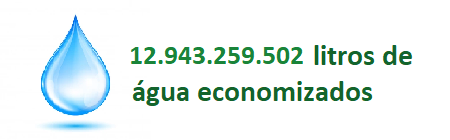
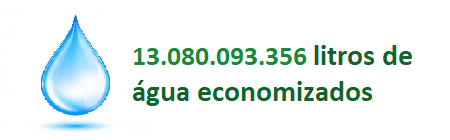
Atualização Parcial Jun23

Changed region(s): [[0.28, 0.3143, 0.6844, 0.4857]]

diff --git a/frontend/src/components/DataTable/index.tsx b/frontend/src/components/DataTable/index.tsx
@@ -22,11 +22,11 @@ const DataTable = () => {
                     </tr>
                     <tr>
                         <td>Codel</td>
-                        <td>249</td>
-                        <td>410</td>
-                        <td>871</td>
-                        <td>25.872,492</td>
-                        <td>108.211,245</td>
+                        <td>258</td>
+                        <td>422</td>
+                        <td>882</td>
+                        <td>29.819,243</td>
+                        <td>109.743,343</td>
                     </tr>
                     <tr>
                         <td>Ecobras</td>
@@ -62,19 +62,19 @@ const DataTable = () => {
                     </tr>
                     <tr>
                         <td>Natal</td>
-                        <td>521</td>
-                        <td>3.396</td>
-                        <td>517</td>
-                        <td>210.957,831</td>
-                        <td>1.583.484,786</td>
+                        <td>527</td>
+                        <td>3.448</td>
+                        <td>525</td>
+                        <td>173.802,411</td>
+                        <td>1.653.930,096</td>
                     </tr>
                     <tr>
                         <td>Reciclo</td>
-                        <td>1.428</td>
-                        <td>2.492</td>
-                        <td>1.727</td>
-                        <td>121.083,247</td>
-                        <td>2.443.289,383</td>
+                        <td>1.498</td>
+                        <td>2.560</td>
+                        <td>1.774</td>
+                        <td>101.823,127</td>
+                        <td>2.535.031,403</td>
                     </tr>                    
                     <tr>
                         <td>Reeecicle</td>
@@ -93,10 +93,10 @@ const DataTable = () => {
                     </tr>
                     <tr>
                         <td>Sete Ambiental</td>
-                        <td>1.219</td>
-                        <td>988</td>
+                        <td>1.257</td>
+                        <td>1.025</td>
                         <td>17</td>
-                        <td>188.649,383</td>
+                        <td>216.379,923</td>
                         <td>609,600</td>
                     </tr>
                     <tr>
@@ -110,9 +110,9 @@ const DataTable = () => {
                     <tr>
                         <td>Zero Impacto</td>
                         <td>87</td>
-                        <td>929</td>
-                        <td>82</td>
-                        <td>83.813,529</td>
+                        <td>981</td>
+                        <td>83</td>
+                        <td>98.599,665</td>
                         <td>80.763,105</td>
                     </tr>
                     <tr>
@@ -125,11 +125,11 @@ const DataTable = () => {
                     </tr>
                     <tr>
                         <th>T O T A I S</th>
-                        <th>3.628</th>
-                        <th>8.702</th>
-                        <th>4.019</th>
-                        <th>881.732,808</th>
-                        <th>16.597.436,720</th>
+                        <th>3.751</th>
+                        <th>8.923</th>
+                        <th>4.086</th>
+                        <th>871.420,665</th>
+                        <th>16.761.156,148</th>
                     </tr>
                 </thead>
                 <tbody>

diff --git a/frontend/src/components/BarRecbMensal/index.tsx b/frontend/src/components/BarRecbMensal/index.tsx
@@ -16,12 +16,12 @@ const BarRecbMensal = () => {
     
     const mockData = {
         labels: {
-            categories: ['Jan/21', 'Fev', 'Mar', 'Abr', 'Mai', 'Jun', 'Jul', 'Ago', 'Set', 'Out', 'Nov', 'Dez', 'Jan/22', 'Fev', 'Mar', 'Abr', 'Mai', 'Jun', "Jul", "Ago", "Set", "Out", "Nov", "Dez", "Jan/23", "Fev", "Mar", "Abr", "Mai"]
+            categories: ['Jan/21', 'Fev', 'Mar', 'Abr', 'Mai', 'Jun', 'Jul', 'Ago', 'Set', 'Out', 'Nov', 'Dez', 'Jan/22', 'Fev', 'Mar', 'Abr', 'Mai', 'Jun', "Jul", "Ago", "Set", "Out", "Nov", "Dez", "Jan/23", "Fev", "Mar", "Abr", "Mai", "Jun"]
         },
         series: [
             {
                 name: "Kg Recebidos",
-                data: [108468, 113628,	123526, 138370, 186067, 187866, 219556, 162479, 257534, 204908, 255846, 235632, 170503, 177506, 183005, 129727, 151077, 156492, 180520, 189042, 220864, 139278, 2174672, 638948, 3023874, 2740832, 3233508, 1653557, 154182]                  
+                data: [108468, 113628,	123526, 138370, 186067, 187866, 219556, 162479, 257534, 204908, 255846, 235632, 170503, 177506, 183005, 129727, 151077, 156492, 180520, 189042, 220864, 139278, 2174672, 638948, 3023874, 2740832, 3233508, 1653557, 154182, 185128 ]                  
             }
         ]
     };

diff --git a/frontend/src/components/BarReciclMensal/index.tsx b/frontend/src/components/BarReciclMensal/index.tsx
@@ -16,12 +16,12 @@ const BarReciclMensal = () => {
     
     const mockData = {
         labels: {
-            categories: ['Jan/21', 'Fev', 'Mar', 'Abr', 'Mai', 'Jun', 'Jul', 'Ago', 'Set', 'Out', 'Nov', 'Dez', 'Jan/22', 'Fev', 'Mar', 'Abr', 'Mai', 'Jun', 'Jul', "Ago", "Set", "Out", "Nov", "Dez", "Jan/23", "Fev", "Mar", "Abr", "Mai"]
+            categories: ['Jan/21', 'Fev', 'Mar', 'Abr', 'Mai', 'Jun', 'Jul', 'Ago', 'Set', 'Out', 'Nov', 'Dez', 'Jan/22', 'Fev', 'Mar', 'Abr', 'Mai', 'Jun', 'Jul', "Ago", "Set", "Out", "Nov", "Dez", "Jan/23", "Fev", "Mar", "Abr", "Mai", "Jun"]
         },
         series: [
             {
                 name: "Kg Reciclados",
-                data: [26339, 90712, 93643, 142116, 166545, 219788, 189244, 197028, 209382, 176002, 176982, 162728, 128780, 136990, 181336, 84713, 112874, 154528, 138325, 172608, 207822, 160358, 1986182, 743296, 2188760, 2122646, 2908162, 2422246, 897304]                  
+                data: [26339, 90712, 93643, 142116, 166545, 219788, 189244, 197028, 209382, 176002, 176982, 162728, 128780, 136990, 181336, 84713, 112874, 154528, 138325, 172608, 207822, 160358, 1986182, 743296, 2188760, 2122646, 2908162, 2422246, 897304, 163719]                  
             }
         ]
     };

diff --git a/frontend/src/components/DonutChart/index.tsx b/frontend/src/components/DonutChart/index.tsx
@@ -3,7 +3,7 @@ import Chart from 'react-apexcharts';
 const DonutChart = () => {
 
     const mockData = {
-        series: [0, 108.211, 46.304, 0, 9.459, 25.501, 1583.485, 2443.289, 0.184, 12299.630, 0.610, 0, 80.763],
+        series: [0, 109.743, 46.304, 0, 9.459, 25.501, 1653.930, 2535.031, 0.184, 12299.630, 0.610, 0, 80.763],
         labels: ['BDPWaste', 'Codel', 'Ecobras', 'Ecodescarte', 'EcoTI - BA', 'EcoTI - SE', 'Natal', 'Reciclo', 'Reeecicle', 'RFR Reciclagem' , 'Sete Ambiental', 'WEEE', 'Zero Impacto']
     }
     

diff --git a/frontend/src/components/BarChart/index.tsx b/frontend/src/components/BarChart/index.tsx
@@ -17,7 +17,7 @@ const BarChart = () => {
             series: [
             {
                 name: "Ton Reciclados",
-                data: [0, 108.211, 46.304, 0, 9.459, 25.501, 1583.485, 2443.289, 0.184, 12299.630, 0.610, 0, 80.763]                  
+                data: [0, 109.743, 46.304, 0, 9.459, 25.501, 1653.930, 2535.031, 0.184, 12299.630, 0.610, 0, 80.763]                  
             }
         ]
     };

diff --git a/frontend/src/components/BarOSs/index.tsx b/frontend/src/components/BarOSs/index.tsx
@@ -22,7 +22,7 @@ const BarOSs = () => {
         series: [
             {
                 name: "OS's Abertas",
-                data: [12, 410, 17, 6, 64, 158, 3396, 2492, 206, 24, 988, 12, 929]                  
+                data: [12, 422, 17, 6, 64, 158, 3448, 2560, 206, 24, 1025, 12, 981]                  
             }
         ]
     };

diff --git a/frontend/src/components/BarODs/index.tsx b/frontend/src/components/BarODs/index.tsx
@@ -22,7 +22,7 @@ const BarODs = () => {
             series: [
             {
                 name: "OD's Abertas",
-                data: [0, 871, 23, 0, 49, 52, 517, 1727, 1, 609, 17, 71, 82]                  
+                data: [0, 882, 23, 0, 49, 52, 525, 1774, 1, 609, 17, 71, 83]                  
             }
         ]
     };

diff --git a/frontend/src/components/BarOTs/index.tsx b/frontend/src/components/BarOTs/index.tsx
@@ -22,7 +22,7 @@ const BarOTs = () => {
         series: [
             {
                 name: "OT's Abertas",
-                data: [3, 249, 0, 37, 24, 14, 521, 1428, 49, 0, 1219, 0, 87]                  
+                data: [3, 258, 0, 37, 24, 14, 527, 1498, 49, 0, 1257, 0, 87]                  
             }
         ]
     };
